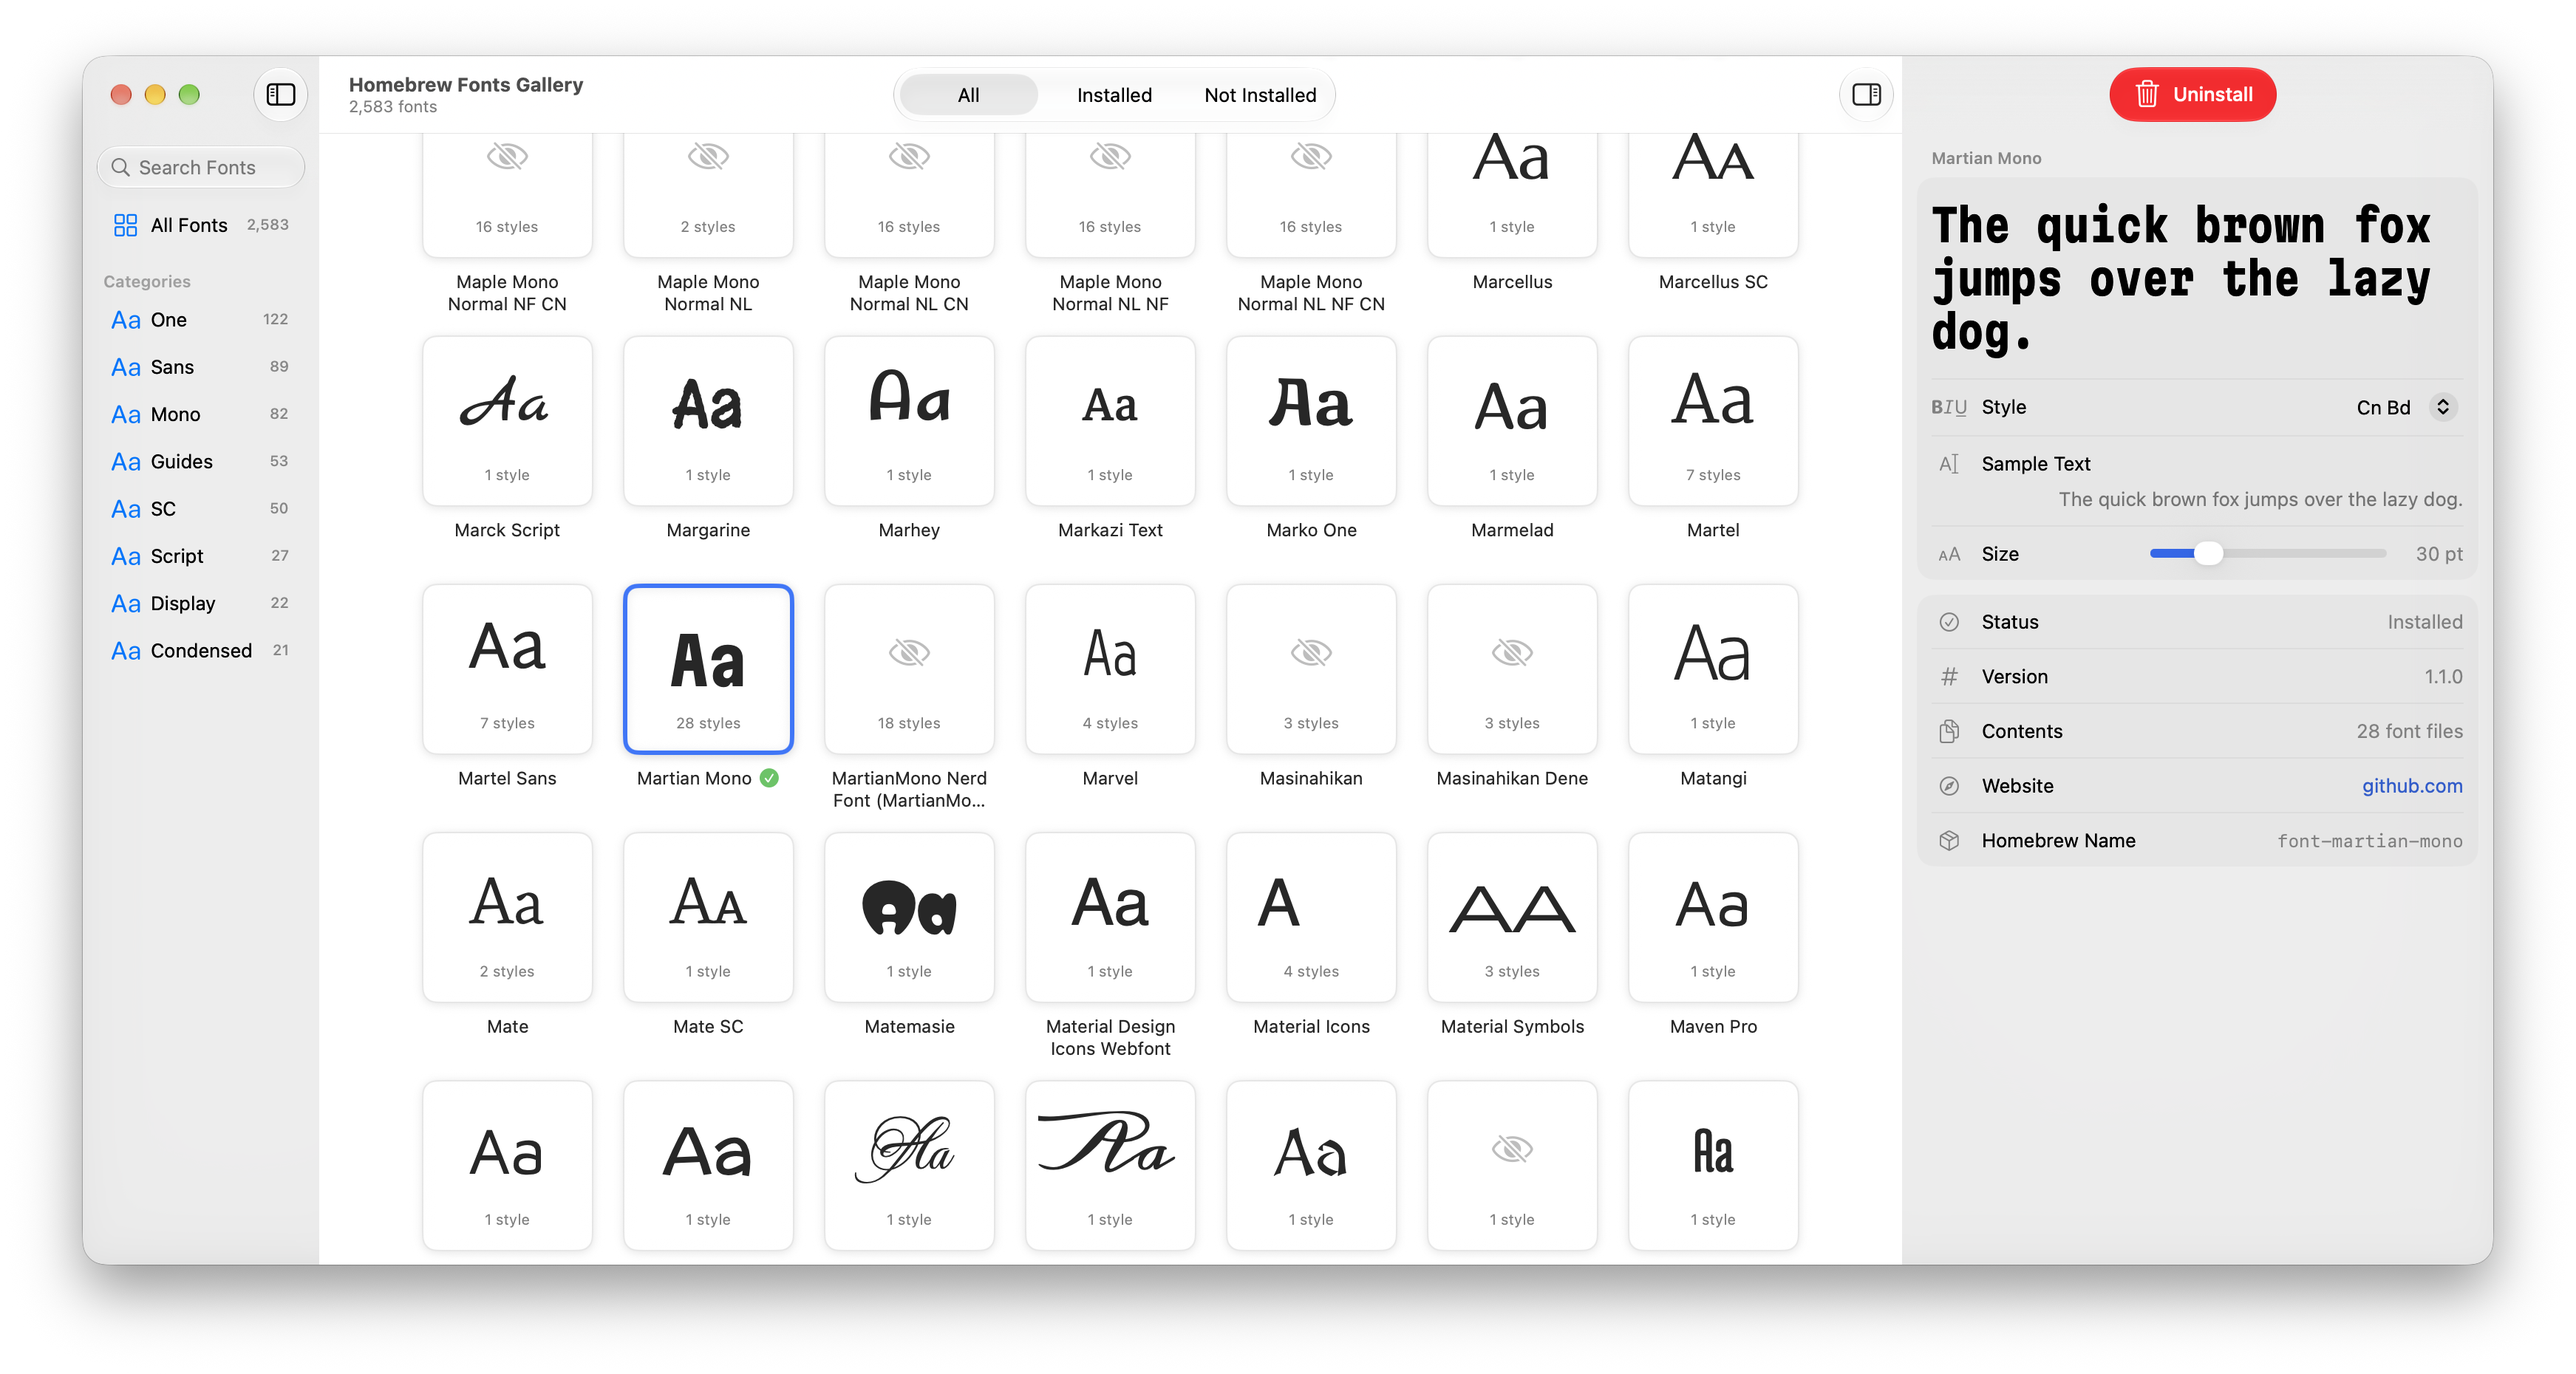
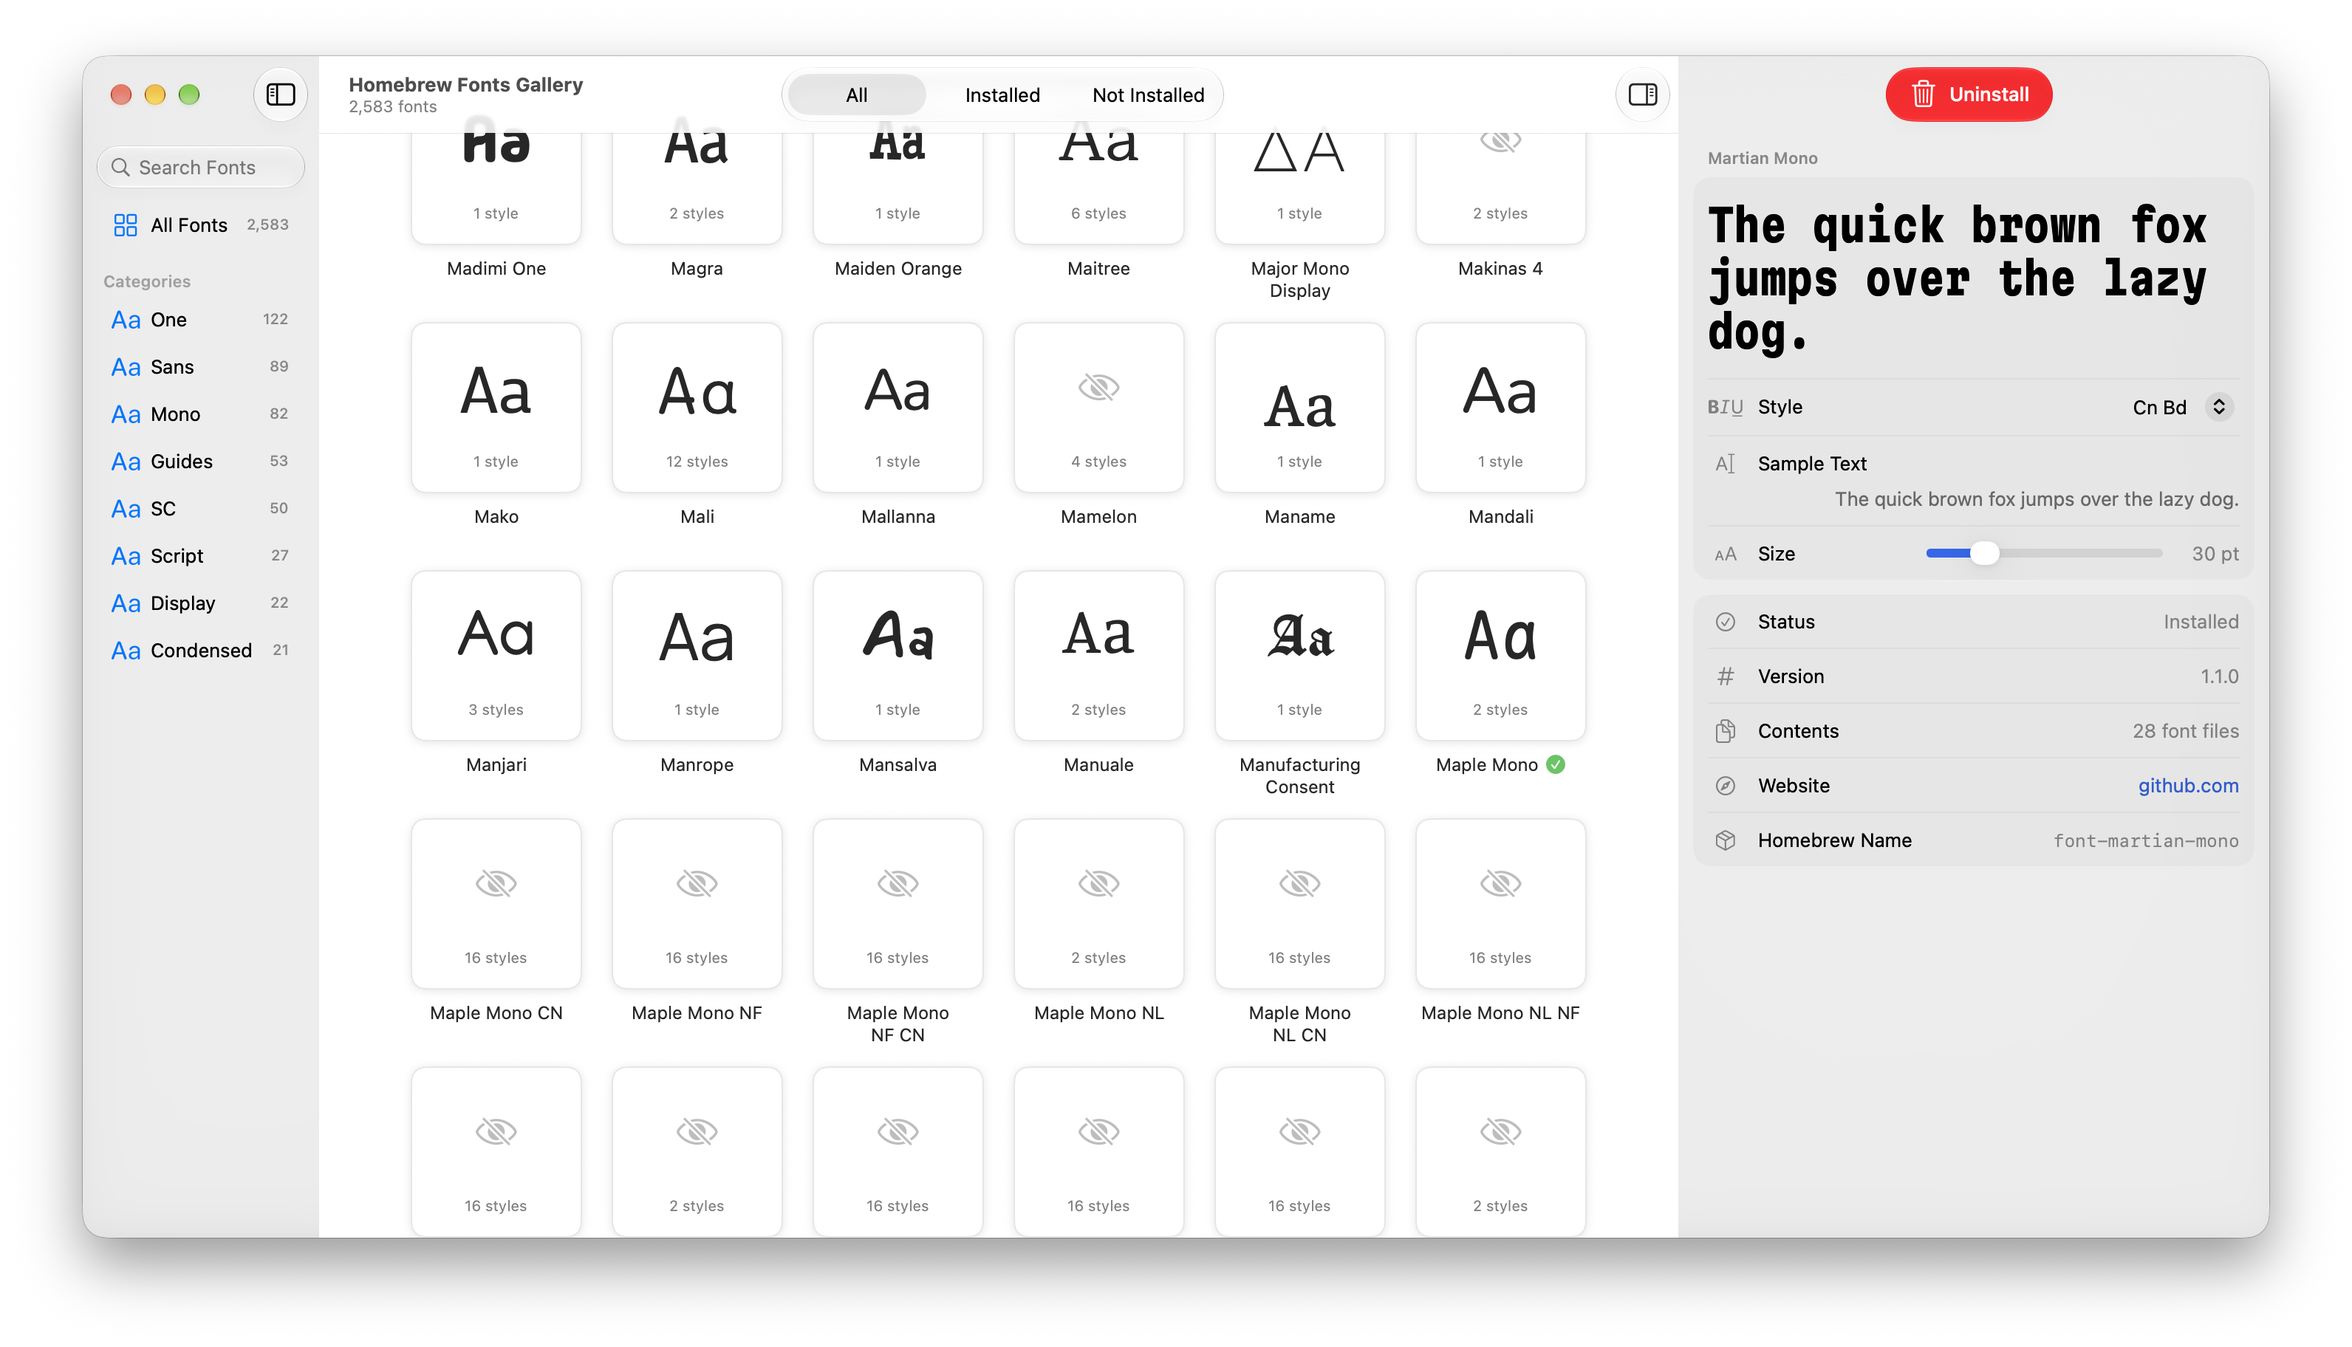
Do less work while the window resizes
Resizing and showing or hiding the details pane had become choppy.
A profile showed the window redrawing far more than it needed to:

- every card measured itself with a GeometryReader, and drew a shadow
  of its whole contents;
- the grid's column count was view state, so each new width redrew
  the whole window and filtered the full font list again;
- an explicit id on every card made the lazy grid look at all 2,583.

Cards are now laid out with fixed numbers, the column count lives
outside view state, and the filtered list is kept until it changes.

diff --git a/HomebrewFontGallery/FontThumbnailView.swift b/HomebrewFontGallery/FontThumbnailView.swift
@@ -12,11 +12,13 @@ struct FontThumbnailView: View {
     private static let sample = "Aa"
     private static let shape = RoundedRectangle(cornerRadius: 10, style: .continuous)
 
+    /// The card is one size everywhere, so its parts are laid out with plain numbers.
+    /// Measuring each card as the window resized made resizing choppy.
+    static let side: CGFloat = 116
+
     /// A white card with the sample in the middle and the number of styles along the bottom.
     private var card: some View {
-        GeometryReader { geometry in
-            let side = geometry.size.width
-            // The saved thumbnail is drawn for a card of the grid's own width.
+        VStack(spacing: 0) {
             ZStack {
                 if let thumbnail {
                     Image(nsImage: thumbnail)
@@ -28,24 +30,26 @@ struct FontThumbnailView: View {
                         .controlSize(.small)
                 } else {
                     Image(systemName: "eye.slash")
-                        .font(.system(size: side * 0.18))
+                        .font(.system(size: Self.side * 0.18))
                         .foregroundStyle(.tertiary)
-                        .help("Install this font to preview it.")
                 }
             }
-            .frame(width: side, height: side * 0.8)
+            .frame(width: Self.side, height: Self.side * 0.76)
 
-            if let styleCount {
-                Text(styleCount)
-                    .font(.footnote)
-                    .foregroundStyle(.secondary)
-                    .lineLimit(1)
-                    .frame(width: side, height: side * 0.2, alignment: .top)
-                    .offset(y: side * 0.76)
-            }
+            Text(styleCount ?? "")
+                .font(.footnote)
+                .foregroundStyle(.secondary)
+                .lineLimit(1)
+                .frame(width: Self.side, height: Self.side * 0.24, alignment: .top)
         }
-        .background(Color(nsColor: .controlBackgroundColor), in: Self.shape)
-        .clipShape(Self.shape)
+        .frame(width: Self.side, height: Self.side)
+        // The shadow belongs to the plain card behind, which is cheaper to draw than
+        // a shadow of everything on it.
+        .background {
+            Self.shape
+                .fill(Color(nsColor: .controlBackgroundColor))
+                .shadow(color: Color(nsColor: .shadowColor).opacity(0.1), radius: 3, y: 1)
+        }
         .overlay {
             if isSelected {
                 Self.shape.strokeBorder(Color.accentColor, lineWidth: 3)
@@ -53,7 +57,6 @@ struct FontThumbnailView: View {
                 Self.shape.strokeBorder(.separator)
             }
         }
-        .shadow(color: Color(nsColor: .shadowColor).opacity(0.1), radius: 3, y: 1)
     }
 
     private var styleCount: String? {
@@ -72,7 +75,6 @@ struct FontThumbnailView: View {
     var body: some View {
         VStack(spacing: 8) {
             card
-                .aspectRatio(1, contentMode: .fit)
 
             HStack(alignment: .firstTextBaseline, spacing: 4) {
                 Text(font.name)

diff --git a/HomebrewFontGallery/ContentView.swift b/HomebrewFontGallery/ContentView.swift
@@ -5,7 +5,9 @@ struct ContentView: View {
     @State private var confirmingUninstall: FontCask?
     @State private var confirmingCancel = false
     @State private var detailsHidden = false
-    @State private var columnCount = 3
+    /// How many cards fit across the grid, for the arrow keys. It is kept outside the
+    /// view's state so that resizing the window doesn't redraw the whole window.
+    @State private var gridLayout = GridLayout()
     private static let detailsWidth: CGFloat = 400
     /// The font that was selected when the app was last used.
     @AppStorage("selectedFont") private var lastSelection = ""
@@ -204,7 +206,7 @@ struct ContentView: View {
 
     /// Every card is this wide, the size of Font Book's, whatever the window's size.
     /// A wider window fits more cards across, and the rest reflow.
-    private static let cardWidth: CGFloat = 116
+    private static let cardWidth = FontThumbnailView.side
     private static let cardSpacing: CGFloat = 20
 
     /// How many cards an adaptive grid fits across the given width.
@@ -228,14 +230,13 @@ struct ContentView: View {
                         .buttonStyle(.plain)
                         .accessibilityLabel(font.isInstalled ? "\(font.name), installed" : font.name)
                         .accessibilityAddTraits(model.selection == font.token ? .isSelected : [])
-                        .id(font.token)
                     }
                 }
                 .padding(24)
                 .background {
                     GeometryReader { geometry in
                         Color.clear.onChange(of: geometry.size.width, initial: true) { _, width in
-                            columnCount = Self.columnCount(forWidth: width - 48)
+                            gridLayout.columnCount = Self.columnCount(forWidth: width - 48)
                         }
                     }
                 }
@@ -285,8 +286,8 @@ struct ContentView: View {
         switch direction {
         case .left: step = -1
         case .right: step = 1
-        case .up: step = -columnCount
-        case .down: step = columnCount
+        case .up: step = -gridLayout.columnCount
+        case .down: step = gridLayout.columnCount
         @unknown default: return
         }
         let target = current + step
@@ -361,4 +362,9 @@ struct ContentView: View {
 
     private var stopLabel: String { isInstalling ? "Stop Installing" : "Stop Uninstalling" }
     private var keepLabel: String { isInstalling ? "Keep Installing" : "Keep Uninstalling" }
+}
+
+/// Plain storage for the grid's column count. Changing it redraws nothing.
+private final class GridLayout {
+    var columnCount = 3
 }

diff --git a/HomebrewFontGallery/GalleryModel.swift b/HomebrewFontGallery/GalleryModel.swift
@@ -55,7 +55,9 @@ final class GalleryModel {
         let message: String
     }
 
-    private(set) var fonts: [FontCask] = []
+    private(set) var fonts: [FontCask] = [] {
+        didSet { updateVisibleFonts() }
+    }
     private(set) var loadState = LoadState.loading
     private(set) var activity: Activity?
     private(set) var status: Status?
@@ -66,9 +68,15 @@ final class GalleryModel {
 
     var selection: FontCask.ID?
     /// The category chosen in the sidebar, or nil for all fonts.
-    var category: FontCategory.ID?
-    var searchText = ""
-    var filter = Filter.all
+    var category: FontCategory.ID? {
+        didSet { updateVisibleFonts() }
+    }
+    var searchText = "" {
+        didSet { updateVisibleFonts() }
+    }
+    var filter = Filter.all {
+        didSet { updateVisibleFonts() }
+    }
 
     private let brew: BrewService
     private var task: Task<Void, Never>?
@@ -83,8 +91,13 @@ final class GalleryModel {
 
     var isBusy: Bool { activity != nil }
 
-    var visibleFonts: [FontCask] {
-        GalleryModel.filter(fonts, by: filter, searchText: searchText, category: categories.first { $0.id == category })
+    /// The fonts the grid shows. It is worked out when what it depends on changes, and
+    /// kept, because the window asks for it many times a second while it is resized.
+    private(set) var visibleFonts: [FontCask] = []
+
+    private func updateVisibleFonts() {
+        visibleFonts = GalleryModel.filter(fonts, by: filter, searchText: searchText,
+                                           category: categories.first { $0.id == category })
     }
 
     nonisolated static func filter(_ fonts: [FontCask], by filter: Filter, searchText: String,
@@ -113,6 +126,7 @@ final class GalleryModel {
                 .filter { $0.isInstallable || $0.isInstalled }
                 .sorted { $0.name.localizedStandardCompare($1.name) == .orderedAscending }
             categories = FontCategory.top(GalleryModel.categoryLimit, in: fonts)
+            updateVisibleFonts()
             loadState = .loaded
         } catch BrewError.notInstalled {
             loadState = .homebrewMissing
